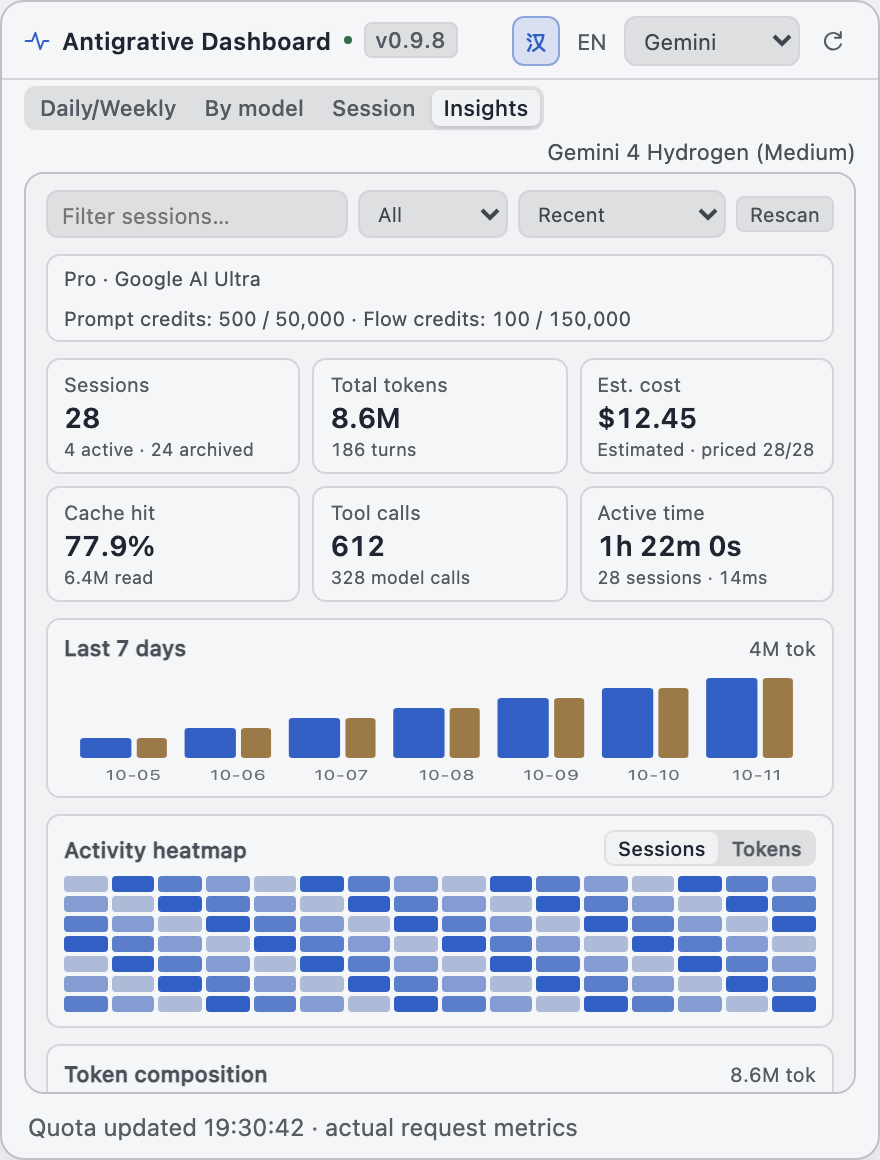
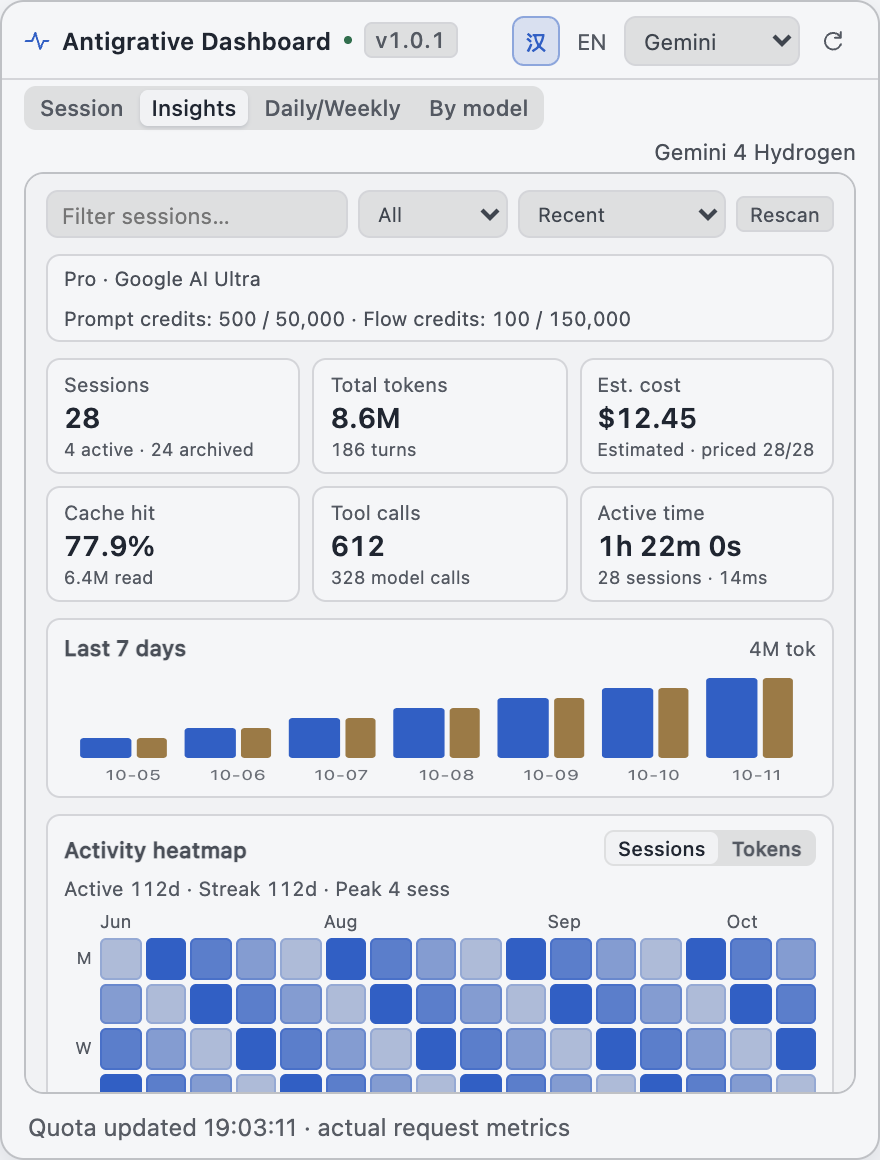
docs(assets): refresh v1.0.1 screenshots and showcase new customization UI

diff --git a/README.md b/README.md
@@ -1,6 +1,6 @@
 <div align="center">
 
-<img src="docs/assets/hero-zh.png?v=0.9.8" width="100%" alt="Antigrative Dashboard v0.9.8：生成速度、Token 缓存、剩余额度与上下文控件，就在输入框旁。">
+<img src="docs/assets/hero-zh.png?v=1.0.1" width="100%" alt="Antigrative Dashboard v1.0.1：生成速度、Token 缓存、剩余额度与上下文控件，就在输入框旁。">
 
 # AGY Context Dashboard (Antigrative Dashboard)
 
@@ -42,29 +42,39 @@
 
 ## 看看效果
 
-<img src="docs/assets/responsive-zh.png?v=0.9.8" width="100%" alt="v0.9.8 主对话窄窗口四图标布局，以及子代理输入框旁的独立统计。">
+<img src="docs/assets/responsive-zh.png?v=1.0.1" width="100%" alt="v1.0.1 主对话窄窗口四图标布局，以及子代理输入框旁的独立统计。">
 
 <table>
-<tr><th width="50%">生成速度与 Token 缓存（显式命中率标识）</th><th width="50%">独立额度预测与 8 分类上下文构成</th></tr>
+<tr><th width="50%">生成速度与 Token 缓存（显式命中率与就地开关）</th><th width="50%">独立额度预测与 8 分类上下文构成</th></tr>
 <tr>
-<td width="50%" valign="top"><img src="docs/assets/speed-zh.png?v=0.9.8" width="100%" alt="生成速度详情卡：会话解码、端到端速率、TTFT 与解码峰值"><br><img src="docs/assets/widget-zh.png?v=0.9.8" width="100%" alt="Token 用量与缓存详情卡：带显式缓存命中率标识与读取/未缓存/输出明细"></td>
-<td width="50%" valign="top"><img src="docs/assets/quota-zh.png?v=0.9.8" width="100%" alt="独立剩余额度卡：Gemini、Claude、Argon 5h 与周额度倒计时及耗尽预测"><br><img src="docs/assets/context-zh.png?v=0.9.8" width="100%" alt="上下文窗口详情卡：宿主 8 分类构成、压缩次数、趋势折线与宿主界面汉化/语言切换开关"></td>
+<td width="50%" valign="top"><img src="docs/assets/speed-zh.png?v=1.0.1" width="100%" alt="生成速度详情卡：会话解码、端到端速率、TTFT 与解码峰值"><br><img src="docs/assets/widget-zh.png?v=1.0.1" width="100%" alt="Token 用量与缓存详情卡：带显式缓存命中率标识与状态栏命中率就地开关"></td>
+<td width="50%" valign="top"><img src="docs/assets/quota-zh.png?v=1.0.1" width="100%" alt="独立剩余额度卡：Gemini、Claude、Argon 5h 与周额度倒计时及耗尽预测"><br><img src="docs/assets/context-zh.png?v=1.0.1" width="100%" alt="上下文窗口详情卡：宿主 8 分类构成、压缩次数、趋势折线、布局切换与设置入口"></td>
 </tr>
 </table>
 
 <table>
+<tr><th width="50%">v1.0.1 非模态设置面板与四项自由换色</th><th width="50%">浅 / 深色主题与自定义指标配色对照</th></tr>
+<tr>
+<td width="50%" valign="top"><img src="docs/assets/settings-dialog-zh.png?v=1.0.1" width="100%" alt="非模态设置弹层：支持浅/深色切换、四项独立调色、排序与显隐控制"></td>
+<td width="50%" valign="top"><img src="docs/assets/theme-colors-zh.png?v=1.0.1" width="100%" alt="浅色默认蓝色基调、浅色四项自定义配色与深色定制配色对照"></td>
+</tr>
+</table>
+
+<img src="docs/assets/density-modes-zh.png?v=1.0.1" width="100%" alt="v1.0.1 三档自适应密度（Full / Compact-Text / Icons-Only）与 Minimal 极简折叠态对照">
+
+<table>
 <tr><th width="50%">右侧边栏 · 当前会话（四视图入口）</th><th width="50%">右侧边栏 · 全局洞察（跨会话总览）</th></tr>
 <tr>
-<td width="50%" valign="top"><img src="docs/assets/panel-session-zh.png?v=0.9.8" width="100%" alt="侧边栏四标签页与当前会话 Token 用量、预估费用及缓存命中率"></td>
-<td width="50%" valign="top"><img src="docs/assets/panel-insights-zh.png?v=0.9.8" width="100%" alt="全局洞察视图：Credits 额度、总消耗、预估费用、近 7 天柱状图与热力图"></td>
+<td width="50%" valign="top"><img src="docs/assets/panel-session-zh.png?v=1.0.1" width="100%" alt="侧边栏四标签页与当前会话 Token 用量、预估费用及缓存命中率"></td>
+<td width="50%" valign="top"><img src="docs/assets/panel-insights-zh.png?v=1.0.1" width="100%" alt="全局洞察视图：Credits 额度、总消耗、预估费用、近 7 天柱状图与热力图"></td>
 </tr>
 </table>
 
 <table>
 <tr><th width="50%">每日 / 每周活动</th><th width="50%">按模型统计用量（含缓存命中率列）</th></tr>
 <tr>
-<td width="50%"><img src="docs/assets/usage-overview-zh.png?v=0.9.8" width="100%" alt="Token 用量活动概览，支持每日和每周贡献图"></td>
-<td width="50%"><img src="docs/assets/usage-details-zh.png?v=0.9.8" width="100%" alt="按模型统计柱状图、额度池汇总及含缓存命中率列的明细表"></td>
+<td width="50%"><img src="docs/assets/usage-overview-zh.png?v=1.0.1" width="100%" alt="Token 用量活动概览，支持每日和每周贡献图"></td>
+<td width="50%"><img src="docs/assets/usage-details-zh.png?v=1.0.1" width="100%" alt="按模型统计柱状图、额度池汇总及含缓存命中率列的明细表"></td>
 </tr>
 </table>
 

diff --git a/README.en.md b/README.en.md
@@ -1,6 +1,6 @@
 <div align="center">
 
-<img src="docs/assets/hero.png?v=0.9.8" width="100%" alt="Antigrative Dashboard v0.9.8: speed, cache, quota and context controls beside the input.">
+<img src="docs/assets/hero.png?v=1.0.1" width="100%" alt="Antigrative Dashboard v1.0.1: speed, cache, quota and context controls beside the input.">
 
 # Agy Context Dashboard (Antigrative Dashboard)
 
@@ -41,29 +41,39 @@ Keep the summary visible. Hover or switch tabs for full details.
 
 ## Preview
 
-<img src="docs/assets/responsive.png?v=0.9.8" width="100%" alt="v0.9.8 four-icon compact layout in a narrow main chat and separate statistics beside a subagent input.">
+<img src="docs/assets/responsive.png?v=1.0.1" width="100%" alt="v1.0.1 four-icon compact layout in a narrow main chat and separate statistics beside a subagent input.">
 
 <table>
-<tr><th width="50%">Speed and cache pill (explicit hit rate)</th><th width="50%">Split quota pace & 8-category context breakdown</th></tr>
+<tr><th width="50%">Speed and cache pill (explicit hit rate & quick toggle)</th><th width="50%">Split quota pace & 8-category context breakdown</th></tr>
 <tr>
-<td width="50%" valign="top"><img src="docs/assets/speed.png?v=0.9.8" width="100%" alt="Generation speed card: session decode, E2E speed, TTFT (P50 / Latest), peak decode"><br><img src="docs/assets/widget.png?v=0.9.8" width="100%" alt="Token usage and cache card with explicit Cache hit rate pill"></td>
-<td width="50%" valign="top"><img src="docs/assets/quota.png?v=0.9.8" width="100%" alt="Dedicated quota card: five-hour and weekly balances, countdowns and exhaustion forecast"><br><img src="docs/assets/context.png?v=0.9.8" width="100%" alt="Context window card: host 8-category composition, compaction trend, Host UI Chinese and language controls"></td>
+<td width="50%" valign="top"><img src="docs/assets/speed.png?v=1.0.1" width="100%" alt="Generation speed card: session decode, E2E speed, TTFT (P50 / Latest), peak decode"><br><img src="docs/assets/widget.png?v=1.0.1" width="100%" alt="Token usage and cache card with explicit Cache hit rate pill and inline bar toggle"></td>
+<td width="50%" valign="top"><img src="docs/assets/quota.png?v=1.0.1" width="100%" alt="Dedicated quota card: five-hour and weekly balances, countdowns and exhaustion forecast"><br><img src="docs/assets/context.png?v=1.0.1" width="100%" alt="Context window card: host 8-category composition, compaction trend, strip mode, and Settings entry"></td>
 </tr>
 </table>
 
 <table>
+<tr><th width="50%">v1.0.1 Non-modal Settings & Per-Item Color Picker</th><th width="50%">Light / Dark Theme & Custom Color Modes</th></tr>
+<tr>
+<td width="50%" valign="top"><img src="docs/assets/settings-dialog.png?v=1.0.1" width="100%" alt="Non-modal Settings popover with light/dark mode, per-item colors, ordering, and visibility toggles"></td>
+<td width="50%" valign="top"><img src="docs/assets/theme-colors.png?v=1.0.1" width="100%" alt="Comparison of light default blue, light custom 4-item colors, and dark custom colors"></td>
+</tr>
+</table>
+
+<img src="docs/assets/density-modes.png?v=1.0.1" width="100%" alt="v1.0.1 three adaptive density tiers (Full, Compact-Text, Icons-Only) and persistent Minimal collapse">
+
+<table>
 <tr><th width="50%">Side Panel · Session view (4-tab navigation)</th><th width="50%">Side Panel · Global Insights view</th></tr>
 <tr>
-<td width="50%" valign="top"><img src="docs/assets/panel-session.png?v=0.9.8" width="100%" alt="Side Panel four top-level tabs and Session token usage with USD cost estimate"></td>
-<td width="50%" valign="top"><img src="docs/assets/panel-insights.png?v=0.9.8" width="100%" alt="Global Insights tab: Prompt/Flow credits, total sessions, estimated cost, 7-day trend and activity heatmap"></td>
+<td width="50%" valign="top"><img src="docs/assets/panel-session.png?v=1.0.1" width="100%" alt="Side Panel four top-level tabs and Session token usage with USD cost estimate"></td>
+<td width="50%" valign="top"><img src="docs/assets/panel-insights.png?v=1.0.1" width="100%" alt="Global Insights tab: Prompt/Flow credits, total sessions, estimated cost, 7-day trend and activity heatmap"></td>
 </tr>
 </table>
 
 <table>
 <tr><th width="50%">Daily and weekly activity</th><th width="50%">Usage by model (with Cache hit column)</th></tr>
 <tr>
-<td width="50%"><img src="docs/assets/usage-overview.png?v=0.9.8" width="100%" alt="Token usage activity with daily and weekly contribution grids"></td>
-<td width="50%"><img src="docs/assets/usage-details.png?v=0.9.8" width="100%" alt="Model usage stacked chart, quota pool pills and model table with Cache hit column"></td>
+<td width="50%"><img src="docs/assets/usage-overview.png?v=1.0.1" width="100%" alt="Token usage activity with daily and weekly contribution grids"></td>
+<td width="50%"><img src="docs/assets/usage-details.png?v=1.0.1" width="100%" alt="Model usage stacked chart, quota pool pills and model table with Cache hit column"></td>
 </tr>
 </table>
 
